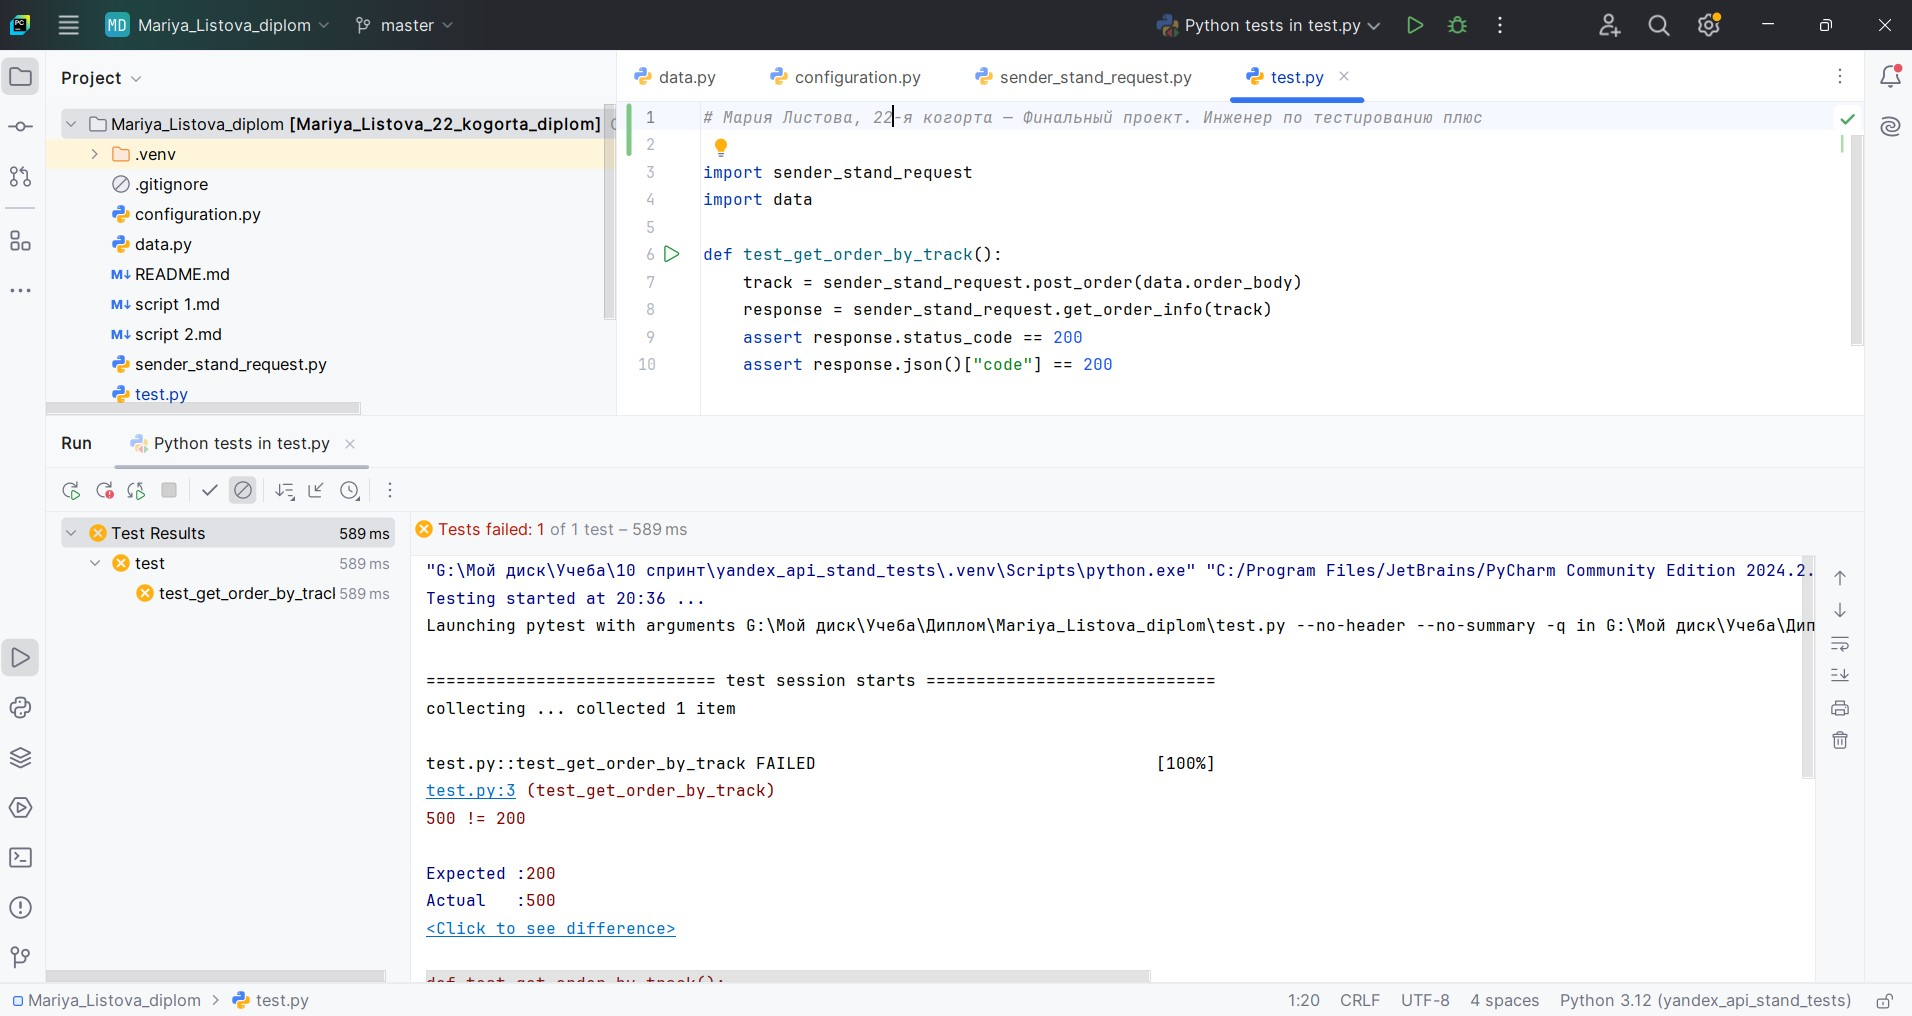
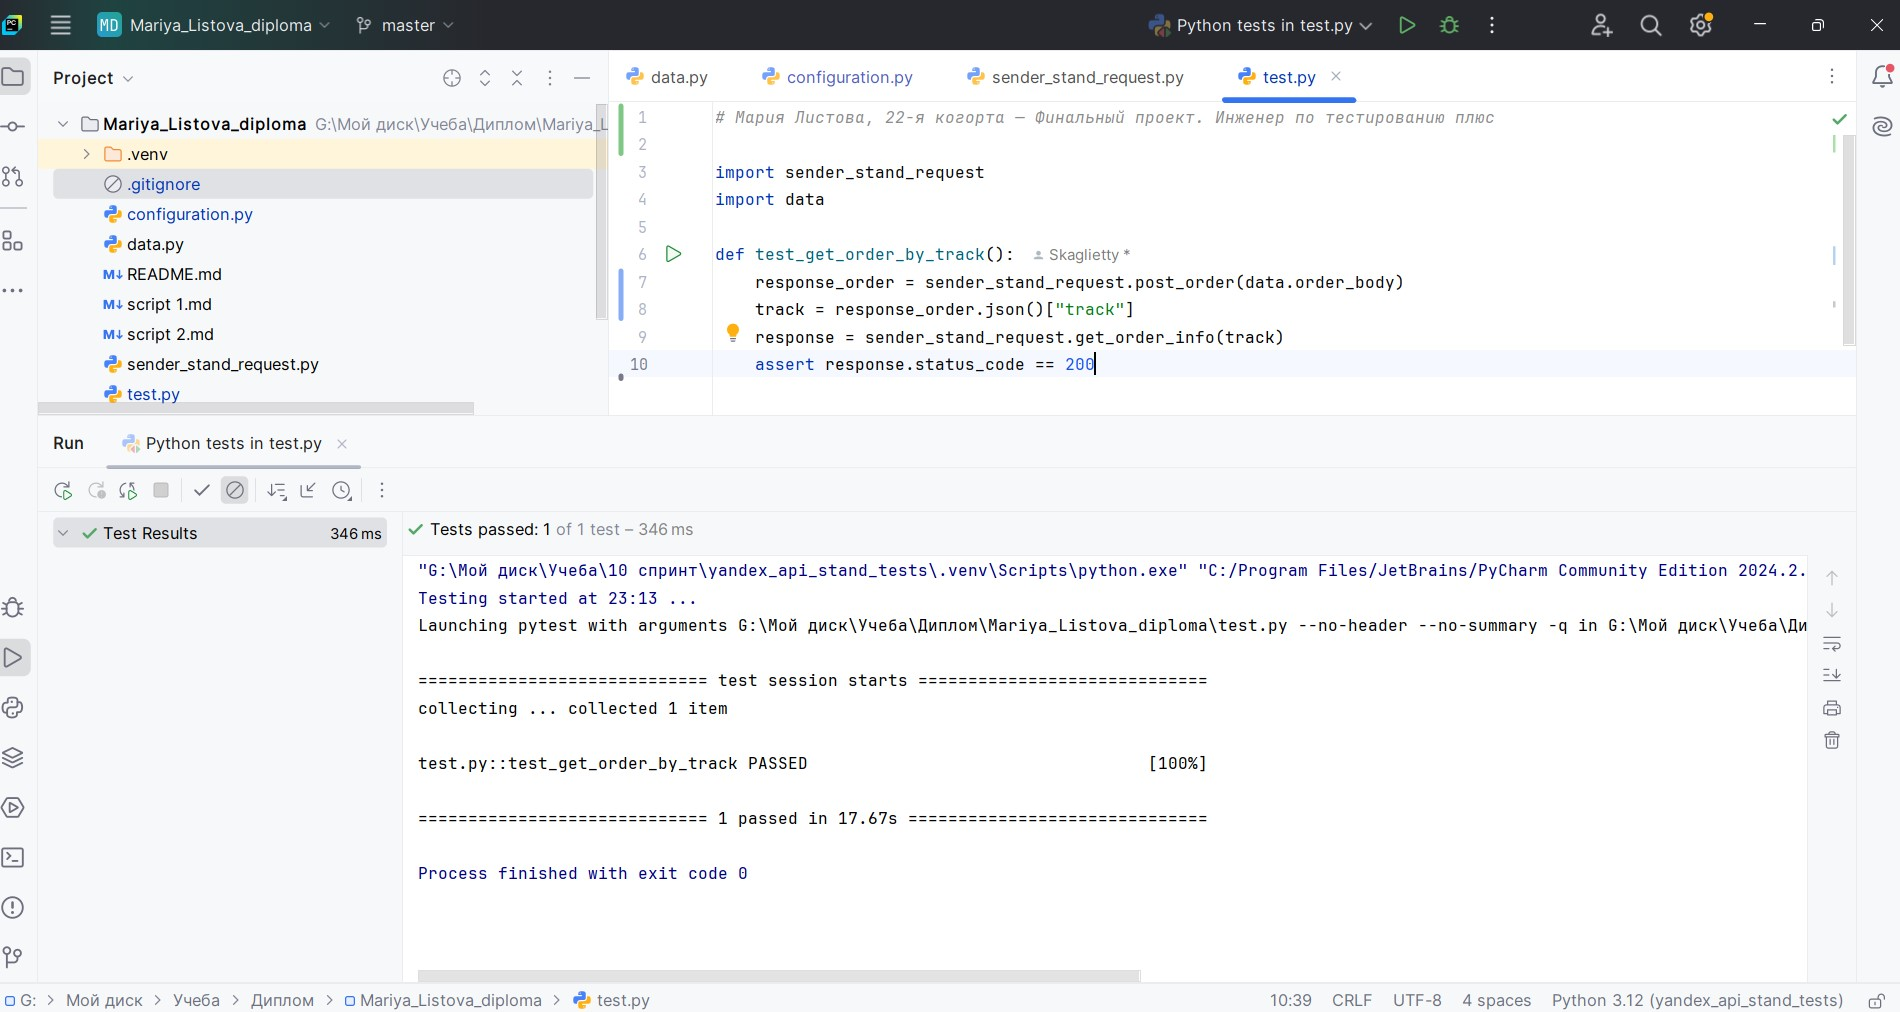
Внесены изменения

diff --git a/test.py b/test.py
@@ -4,7 +4,7 @@ import sender_stand_request
 import data
 
 def test_get_order_by_track():
-    track = sender_stand_request.post_order(data.order_body)
+    response_order = sender_stand_request.post_order(data.order_body)
+    track = response_order.json()["track"]
     response = sender_stand_request.get_order_info(track)
     assert response.status_code == 200
-    assert response.json()["code"] == 200
